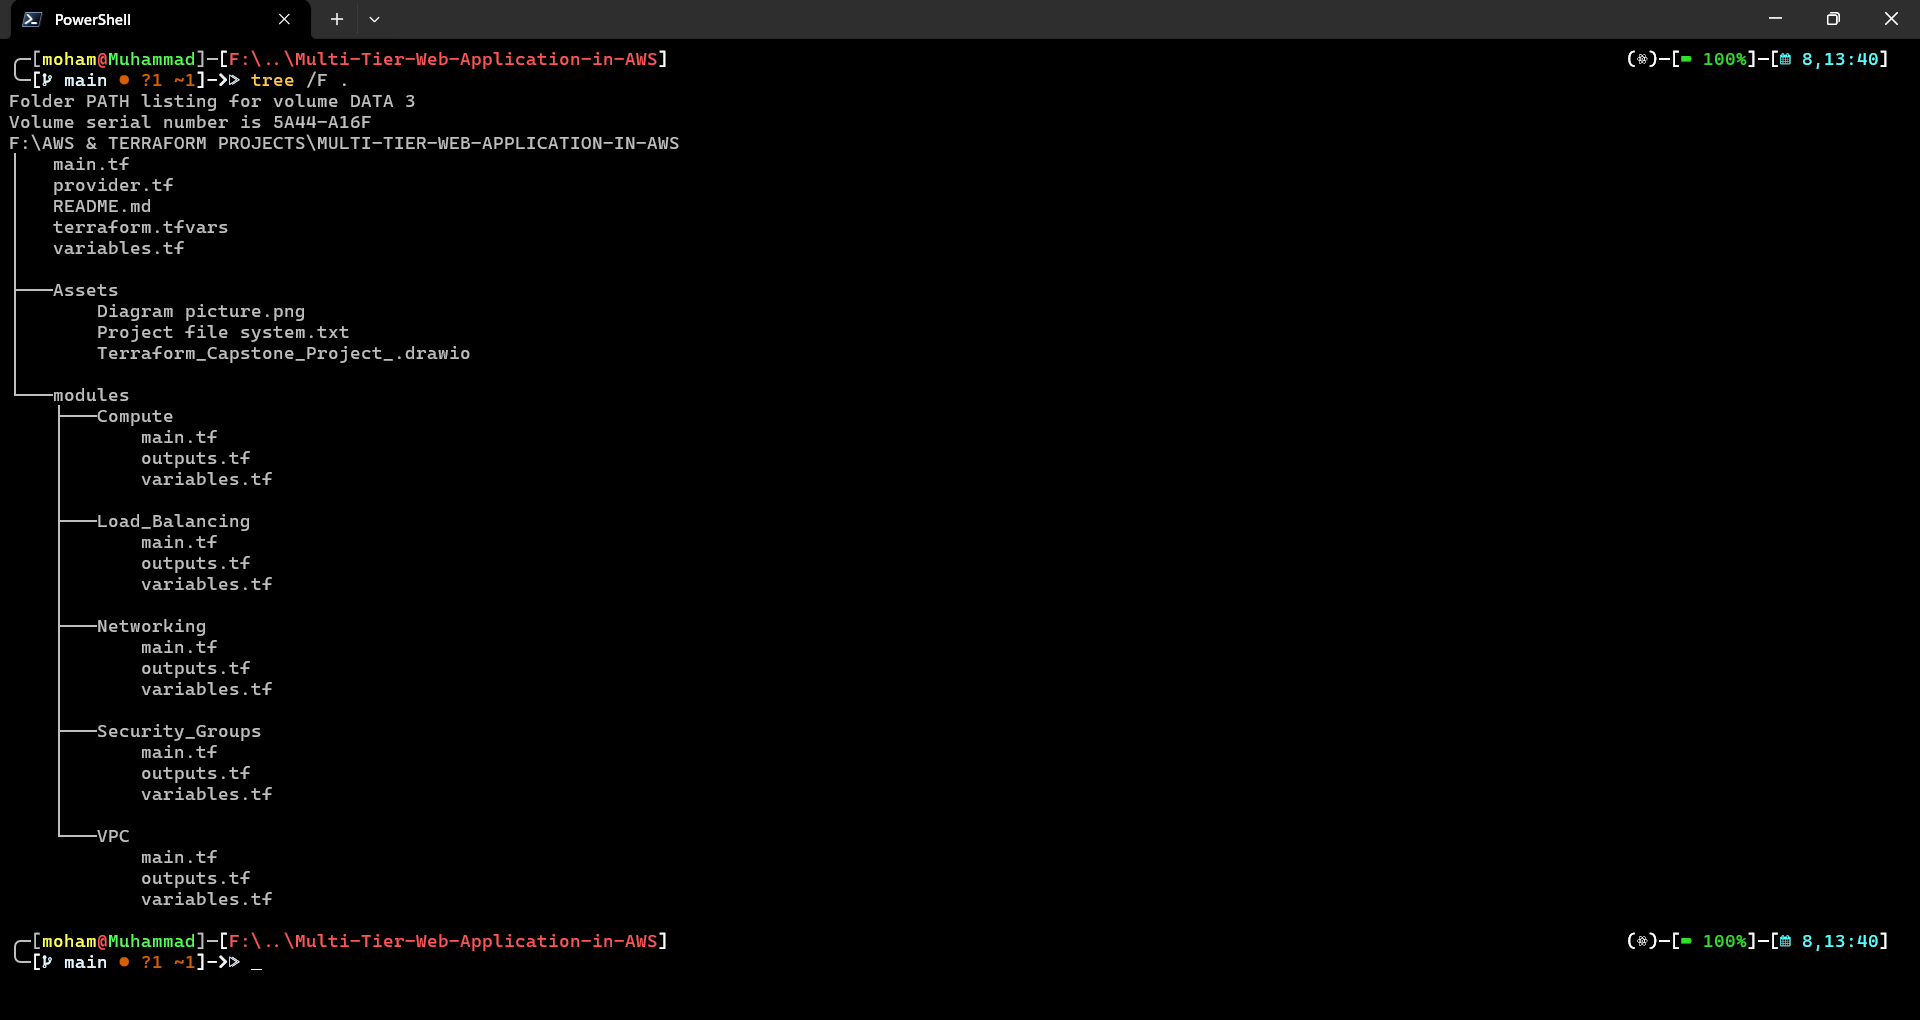
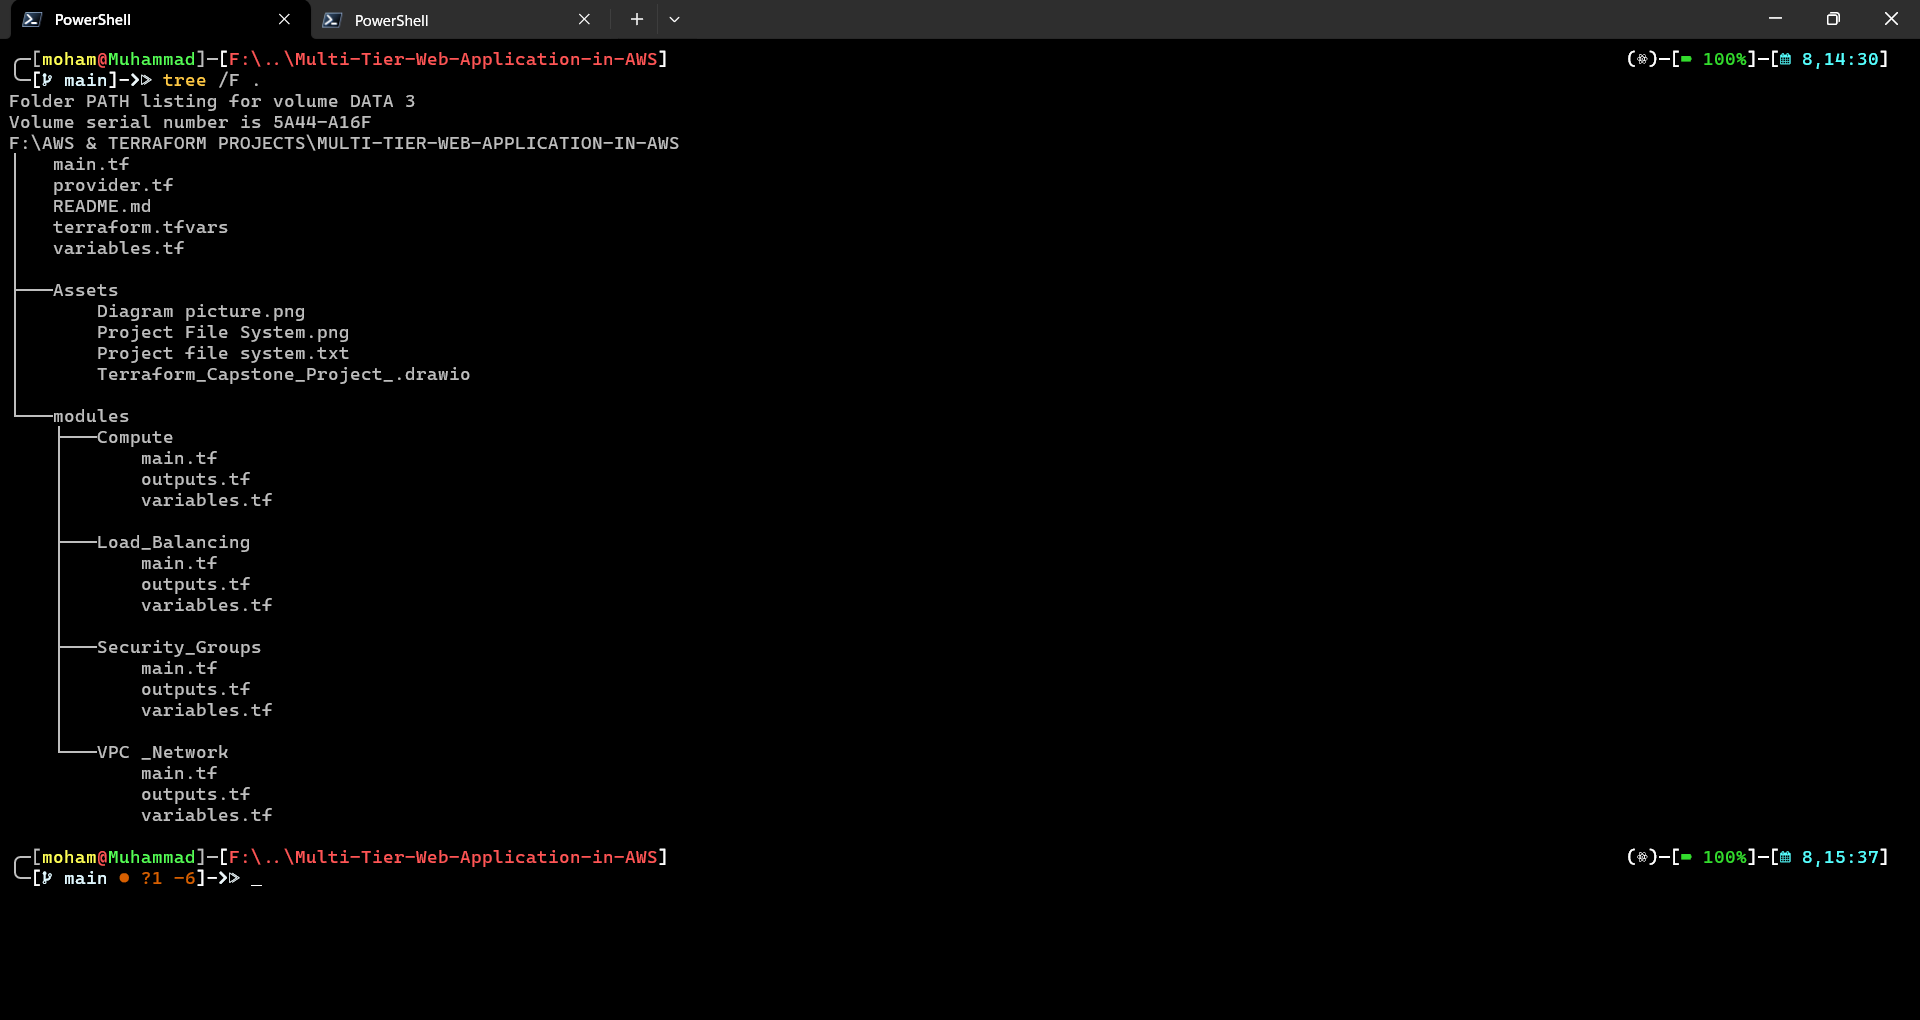
mirge VPC & Network modules, Update the diagram, Update README.md, finish VPC - subnets

diff --git a/README.md b/README.md
@@ -26,6 +26,8 @@ This diagram illustrates a robust, multi-tier web application architecture deplo
     * **Description:** The VPC is segmented into six subnets distributed across the two Availability Zones to enforce network isolation and security:
         * **Public Subnets (2):** One in `eu-central-1a` (Public subnet 1) and one in `eu-central-1b` (Public subnet 2). These subnets host resources that require direct internet access, such as NAT Gateways.
         * **Private Subnets (4):** Two in `eu-central-1a` (Private subnet 1, Private subnet 3 "Reserved for DB") and two in `eu-central-1b` (Private subnet 2, Private subnet 4 "Reserved for DB"). These subnets host application servers and database instances, preventing direct internet access for enhanced security.
+        
+        `Note`: The 2 Private Subnets thet will contain the databases will not be applyed as there is no database included yet `(Future Imporvments)`
 
 5.  **Internet Gateway (IGW)**
     * **Description:** The Internet Gateway provides a connection between the VPC and the public internet. It enables public subnets to communicate with the internet and allows inbound internet traffic to the ALB.
